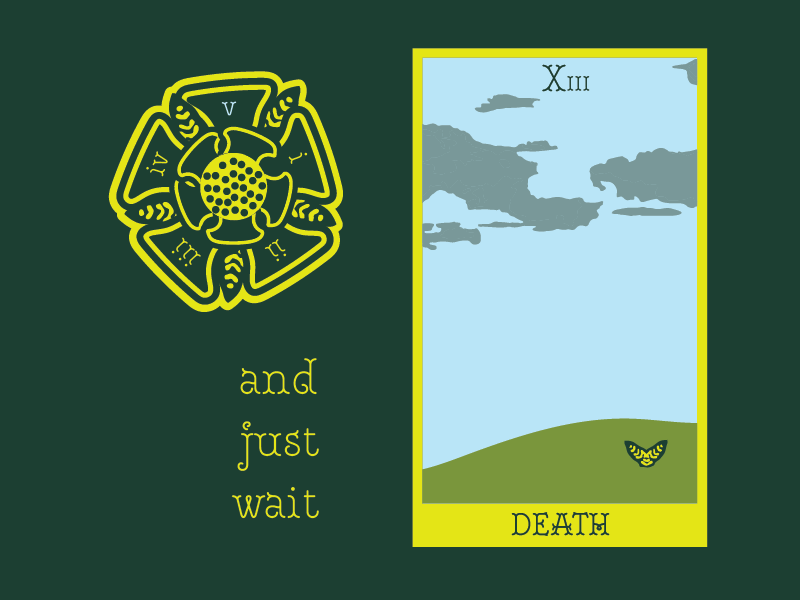
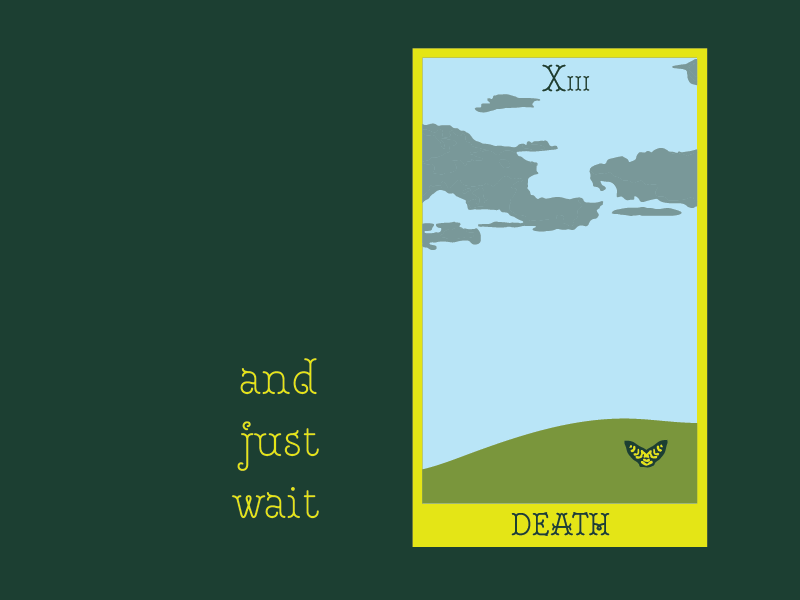
halfway thru screen 2

Changed region(s): [[0.125, 0.12, 0.4375, 0.54]]

diff --git a/screen1.js b/screen1.js
@@ -1,6 +1,7 @@
 let screenOneBackground;
 let sword;
 let handPosition;
+let flowerAngle;
 
 function preload () {
     screenOneBackground = loadImage("assets/screenOneBackground.png");
@@ -15,11 +16,20 @@ sword.position = createVector(650, 410);
 sword.friction = 10;
 
 handPosition = createVector (500, 315);
+
 flower = new Sprite ();
 flower.img = 'assets/screenOneFlower.png';
 
 leaves = new Sprite ();
 leaves.img = 'assets/screenOneLeaf.png';
+
+hand = new Sprite ();
+hand.img = 'assets/screenOneHand.png'
+
+phaseFlower = new Sprite ();
+phaseFlower.img = 'assets/flowerOne.png'
+
+
 
 flower.collider = "static";
 leaves.collider = "static";
@@ -32,12 +42,16 @@ function draw() {
 
     
     background(screenOneBackground);
-    // sword.x = 650;
-    // sword.y = 410;
+    
     flower.x = 650;
     flower.y = 350;
     leaves.x = 650;
     leaves.y = 458;
+    hand.x = 1000
+    hand.y= 1000
+
+    phaseFlower.x = 220
+    phaseFlower.y = 190
 
     if (sword.mouse.dragging()) {
         sword.moveTowards(mouseX, mouseY, .1);
@@ -47,6 +61,26 @@ function draw() {
     if (dist(sword.x,sword.y,handPosition.x,handPosition.y) < 20) {
         sword.position = createVector(502, 315);
         sword.collider = "static";
+        hand.x = 502
+        hand.y = 275
+        // phaseFlower.rotationSpeed = -4
+        // if (phaseFlower.rotation > -72){
+        //     location.assign("screen2.html")
+        // }
+    
+        phaseFlower.rotateTo(-72, .2);
+        console.log(phaseFlower.rotation)
+        flowerAngle = phaseFlower.rotation
+        if (flowerAngle == -72){
+            location.assign("screen2.html");
+        }
+        // let time = millis();
+        // if (millis() > time + 2000) {
+        //     location.assign(screen2.html)
+        // }
     }
+
+        
+
 
 }

diff --git a/screen2.js b/screen2.js
@@ -1,0 +1,40 @@
+let screenTwoBackground;
+let phaseFlower;
+let screenTwoSword;
+let clearRect;
+
+function preload() {
+    screenTwoBackground = loadImage("assets/screenTwoBackground.png")
+    
+}
+
+function setup() {
+    createCanvas(800, 600);
+    phaseFlower = new Sprite ();
+    phaseFlower.img = 'assets/flowerTwo.png'
+
+    screenTwoSword = new Sprite ();
+    screenTwoSword.img = 'assets/screenTwoSword.png'
+
+    clearRect = new Sprite ();
+    clearRect.img = 'assets/clearRect.png'
+    clearRect.x = 494
+    clearRect.y = 156
+    clearRect.opacity = 0
+    
+}
+
+function draw(){
+    clear();
+    background(screenTwoBackground);
+
+    screenTwoSword.x = mouseX + 50
+    screenTwoSword.y = mouseY + 140
+    phaseFlower.x = 220
+    phaseFlower.y = 190
+    phaseFlower.rotation = -72
+
+    if (mouse.presses('clearRect')){
+        location.assign("screen3.html")
+    }
+}
